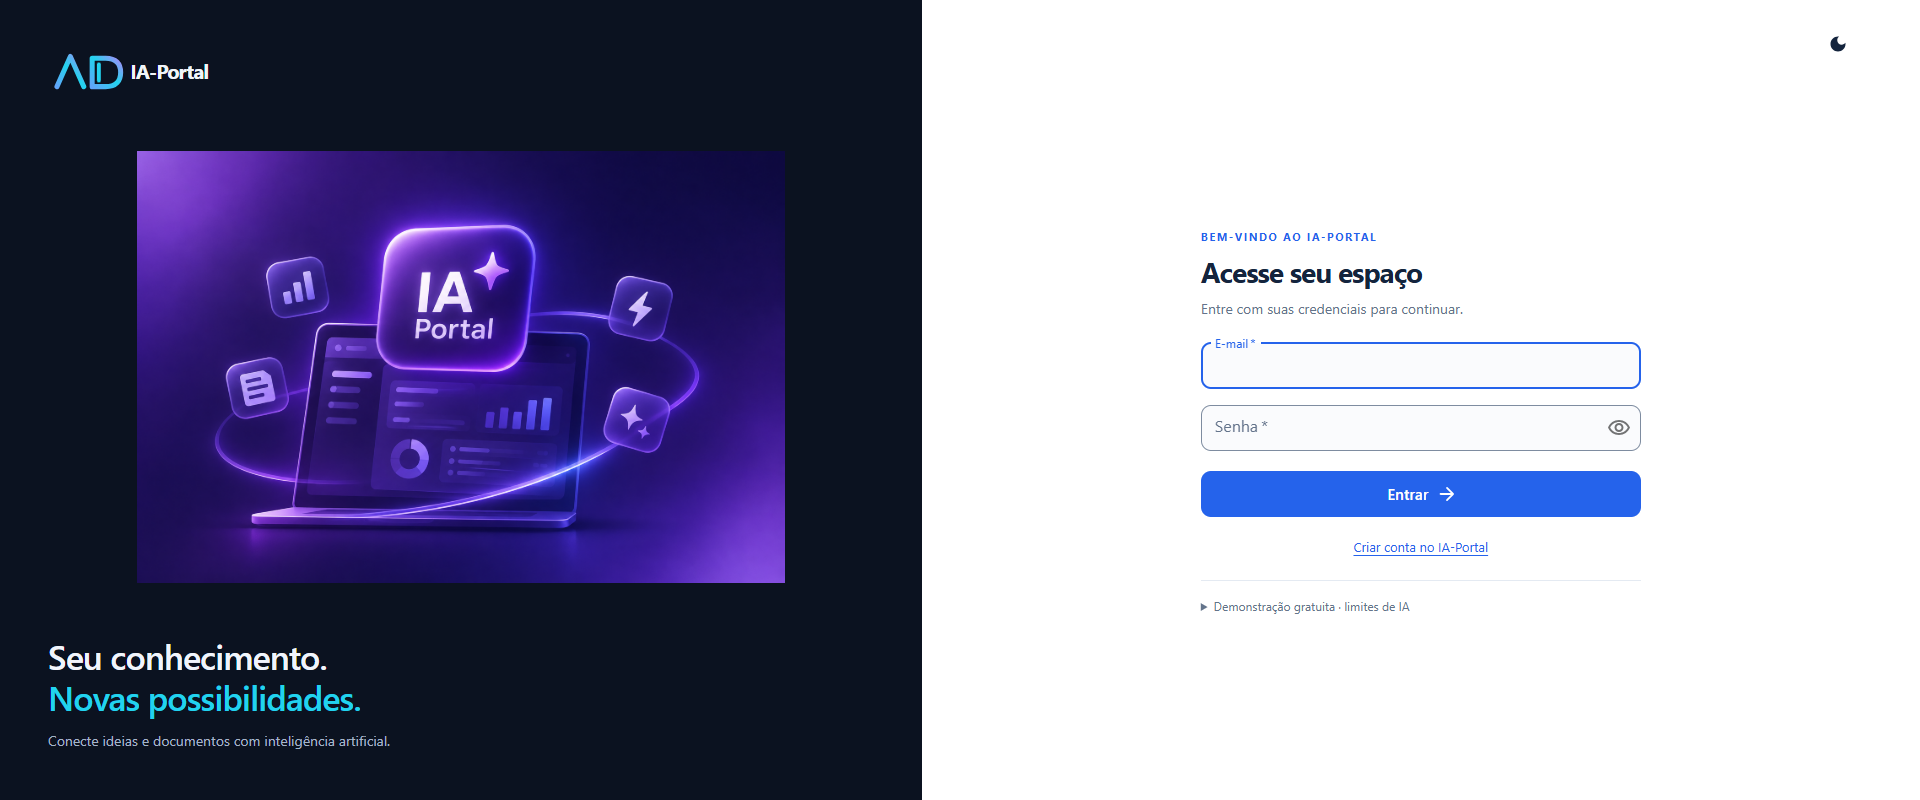
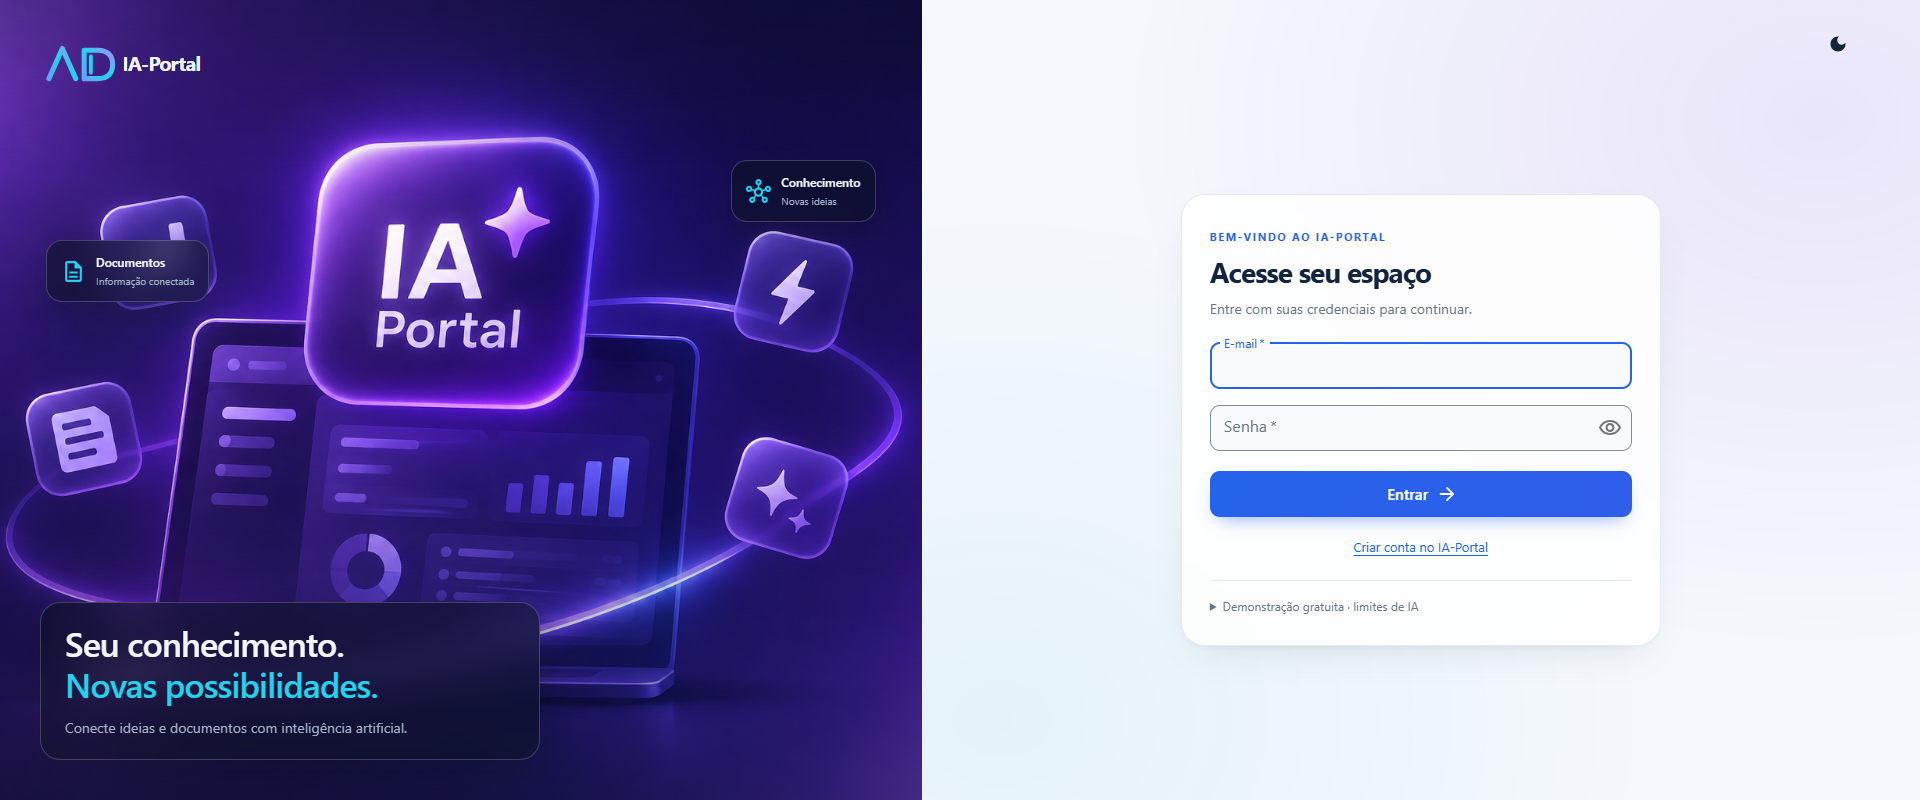
animated login

diff --git a/front/src/pages/login.css b/front/src/pages/login.css
@@ -6,22 +6,70 @@
   background: var(--portal-surface);
 }
 .login-story {
+  position: relative;
+  isolation: isolate;
   display: grid;
   grid-template-rows: auto minmax(220px, 1fr) auto;
   gap: 20px;
   min-width: 0;
-  padding: clamp(24px, 3vw, 48px);
+  padding: clamp(24px, 2.5vw, 40px);
   background: var(--login-art-background);
   color: var(--login-art-text);
 }
-.login-scene { align-self: center; width: 100%; min-width: 0; }
+.login-story > img, .login-story-copy { position: relative; z-index: 1; }
+.login-scene {
+  position: absolute;
+  inset: 0;
+  z-index: -1;
+  pointer-events: none;
+}
+.login-scene::after {
+  content: "";
+  position: absolute;
+  inset: 0;
+  background: linear-gradient(180deg,
+    color-mix(in srgb, var(--login-art-background) 30%, transparent),
+    transparent 22%, transparent 58%,
+    color-mix(in srgb, var(--login-art-background) 45%, transparent));
+}
 .login-illustration {
   display: block;
   width: 100%;
-  max-height: 54dvh;
-  object-fit: contain;
+  height: 100%;
+  object-fit: cover;
+  object-position: 50% 40%;
 }
-.login-story-copy { max-width: 460px; }
+.login-float {
+  position: absolute;
+  z-index: 1;
+  display: flex;
+  align-items: center;
+  gap: 10px;
+  padding: 12px 14px;
+  border: 1px solid color-mix(in srgb, var(--login-art-text) 20%, transparent);
+  border-radius: 16px;
+  background: color-mix(in srgb, var(--login-art-background) 55%, transparent);
+  backdrop-filter: blur(16px);
+  box-shadow: 0 12px 32px color-mix(in srgb, var(--login-art-background) 35%, transparent);
+  color: var(--login-art-text);
+  font-size: 12px;
+  font-weight: 600;
+  animation: login-float 7s ease-in-out infinite;
+}
+.login-float svg { color: var(--login-art-accent); font-size: 25px; }
+.login-float-caption { display: block; margin-top: 3px; font-size: 10px; font-weight: 400; color: var(--login-art-muted); }
+.login-float-document { left: 5%; top: 30%; }
+.login-float-knowledge { right: 5%; top: 20%; animation-delay: -3s; }
+.login-story-copy {
+  grid-row: 3;
+  max-width: 500px;
+  padding: 20px 24px;
+  border: 1px solid color-mix(in srgb, var(--login-art-text) 20%, transparent);
+  border-radius: 20px;
+  background: color-mix(in srgb, var(--login-art-background) 55%, transparent);
+  backdrop-filter: blur(20px);
+  box-shadow: 0 16px 40px color-mix(in srgb, var(--login-art-background) 40%, transparent);
+}
 .login-story .login-story-title {
   font-size: clamp(24px, 2vw, 34px);
   font-weight: 600;
@@ -40,6 +88,10 @@
   flex-direction: column;
   min-width: 0;
   padding: 24px clamp(24px, 4vw, 64px);
+  background:
+    radial-gradient(ellipse at 90% 15%, color-mix(in srgb, var(--portal-violet) 10%, transparent), transparent 55%),
+    radial-gradient(ellipse at 8% 90%, color-mix(in srgb, var(--portal-cyan) 7%, transparent), transparent 50%),
+    var(--portal-background);
 }
 .login-toolbar {
   display: flex;
@@ -51,17 +103,27 @@
 .login-mobile-brand { display: none; }
 .login-form-panel .login-form-card {
   width: 100%;
-  max-width: 440px;
+  max-width: 480px;
   align-self: center;
   margin-block: auto;
-  padding-block: 32px;
-  background: transparent;
-  border: 0;
-  box-shadow: none;
+  padding: 28px;
+  border-radius: 24px;
+  background: color-mix(in srgb, var(--portal-surface) 88%, transparent);
+  border: 1px solid var(--portal-border);
+  box-shadow: var(--portal-shadow);
+  backdrop-filter: blur(20px);
+  animation: login-card-enter .5s ease both;
+}
+[data-theme="dark"] .login-form-panel .login-form-card {
+  border-color: color-mix(in srgb, var(--portal-border) 85%, var(--portal-primary));
+  box-shadow: var(--portal-shadow), 0 0 60px -25px color-mix(in srgb, var(--portal-primary) 25%, transparent);
 }
 .login-fields { display: grid; gap: 16px; }
 .login-fields .MuiOutlinedInput-root { height: 46px; }
-.login-fields .MuiButton-containedPrimary { background-image: none; box-shadow: none; }
+.login-fields .MuiButton-containedPrimary {
+  background-image: linear-gradient(115deg, var(--portal-primary), color-mix(in srgb, var(--portal-primary) 88%, var(--portal-violet)));
+  box-shadow: 0 8px 18px -8px color-mix(in srgb, var(--portal-primary) 55%, transparent);
+}
 [data-theme="light"] .login-fields .MuiOutlinedInput-notchedOutline {
   border-color: color-mix(in srgb, var(--portal-muted) 80%, var(--portal-border));
 }
@@ -81,6 +143,11 @@
   max-width: 100%;
   border-radius: 4px;
 }
+@media (min-width: 900px) and (max-width: 1199px) {
+  .login-float { gap: 6px; padding: 9px; font-size: 11px; }
+  .login-float svg { font-size: 20px; }
+  .login-float-caption { display: none; }
+}
 @media (max-width: 899px) {
   .login-shell { grid-template-columns: minmax(0, 1fr); }
   .login-story { display: none; }
@@ -88,5 +155,17 @@
   .login-mobile-brand { display: block; min-width: 0; }
 }
 @media (max-width: 479px) {
-  .login-form-panel { padding: 16px 24px; }
+  .login-form-panel { padding: 16px; }
+  .login-form-panel .login-form-card { padding: 24px 20px; border-radius: 20px; }
+}
+@keyframes login-float {
+  0%, 100% { transform: translateY(0) rotate(-3deg); }
+  50% { transform: translateY(-9px) rotate(-1deg); }
+}
+@keyframes login-card-enter {
+  from { opacity: 0; transform: translateY(8px); }
+  to { opacity: 1; transform: translateY(0); }
+}
+@media (prefers-reduced-motion: reduce) {
+  .login-shell *, .login-shell *::before, .login-shell *::after { animation: none !important; }
 }

diff --git a/front/src/components/LoginVisual.tsx b/front/src/components/LoginVisual.tsx
@@ -1,8 +1,16 @@
 import { Box } from "@mui/material";
+import DescriptionOutlined from "@mui/icons-material/DescriptionOutlined";
+import HubOutlined from "@mui/icons-material/HubOutlined";
 
 // Original artwork stays unobscured and vivid in both themes.
 export default function LoginVisual() {
   return <Box className="login-scene" aria-hidden="true">
     <Box component="img" className="login-illustration" src="/images/login-neon-portal.png" alt="" />
+    <Box className="login-float login-float-document">
+      <DescriptionOutlined /><span>Documentos<span className="login-float-caption">Informação conectada</span></span>
+    </Box>
+    <Box className="login-float login-float-knowledge">
+      <HubOutlined /><span>Conhecimento<span className="login-float-caption">Novas ideias</span></span>
+    </Box>
   </Box>;
 }

diff --git a/docs/design/LOGIN_COMPACT_VALIDATION.md b/docs/design/LOGIN_COMPACT_VALIDATION.md
@@ -1,17 +1,25 @@
 # Login compacto — validação em 12/11/2026
 
-Branch: `feature/compact-login`. Alteração restrita ao login, sem novas dependências
+Revisão: `feature/login-glass-motion`, após o PR #17. Alteração restrita ao login, sem novas dependências
 ou mudanças de API, sessão, cadastro e retorno de convites.
 
-Grid 48%/52%, altura mínima do viewport, formulário até 440 px, campos/botão de
+Grid 48%/52%, altura mínima do viewport, cartão de até 480 px com formulário de
+422 px úteis no desktop, campos/botão de
 46 px e intervalo de 16 px. Toolbar no fluxo normal. Abaixo de 900 px, ilustração
 oculta e marca junto ao seletor de tema. Alturas insuficientes permitem rolagem.
 Sem overflow hidden no shell, corte de conteúdo ou transform scale.
 
 Imagem original e SVGs preservados. Painel ilustrado usa os tokens escuros
-existentes nos dois temas, sem transparência. Object-fit contain mantém a arte
-inteira visível. Cartão sobreposto, flutuantes e lista removidos. Formulário usa
-tema selecionado, bordas legíveis no claro e botão sólido sem brilho adicional.
+existentes nos dois temas, sem reduzir a opacidade da imagem. Object-fit cover
+preenche o painel mantendo o elemento IA-Portal visível; extremidades decorativas
+podem ser recortadas conforme a proporção. Mensagem curta em vidro fosco de
+aproximadamente 140–160 px de altura, sem lista de funcionalidades. Elementos
+decorativos flutuam por transform CSS em ciclos de 7 s. Formulário em cartão
+translúcido com blur, sombra, borda discreta e entrada de 0,5 s; fundo com gradientes
+estáticos. Claro usa superfícies neutras; escuro recupera profundidade e luz suave.
+Tokens existentes reutilizados. Sem cópia de marca, imagem ou código da referência.
+Somente elementos decorativos usam posicionamento absoluto; conteúdo essencial
+permanece em Grid/Flex. Movimento desativado em prefers-reduced-motion.
 Aviso completo em details/summary nativos, expansíveis por teclado.
 
 ## Resultado no navegador
@@ -30,7 +38,7 @@ login simuladas. Sem contas ou dados de produção.
 | 390×844 | PASS | PASS | Não | Não |
 
 Em 390×360 com erro, ambos os temas permitem rolar até o último controle.
-Formulário medido em 440 px no desktop/tablet e 342 px no mobile; campos/botão
+Formulário medido em 422 px no desktop/tablet e 316 px no mobile; campos/botão
 em 46 px. Controles essenciais visíveis em Full HD com 800 px úteis.
 Capturas de todos os viewports geradas e inspecionadas. Exemplos para revisão:
 
@@ -42,7 +50,9 @@ Capturas de todos os viewports geradas e inspecionadas. Exemplos para revisão:
 O teste `tests/ui/login-layout.cjs` confirma 12 layouts, zero violações axe WCAG
 A/AA encontradas, ausência de erros JavaScript, aviso operável com Enter, senha
 visível/oculta, payload original de login, loading com botão desabilitado, erro,
-tema salvo e link de cadastro condicionado à API. Não equivale a auditoria
+tema salvo e link de cadastro condicionado à API. A animação também foi verificada
+com movimento normal (transform varia) e preferência reduzida (animation none).
+Não equivale a auditoria
 completa de acessibilidade.
 
 ## Comandos executados

diff --git a/docs/delivery/IMPLEMENTATION_LOG.md b/docs/delivery/IMPLEMENTATION_LOG.md
@@ -22,6 +22,28 @@ docs/design/LOGIN_COMPACT_VALIDATION.md. Sem .NET/login real/deploy, pois backen
 intacto. Sem novas bibliotecas ou alterações em outras telas. PR para revisão
 visual, sem merge automático.
 
+## 2026-11-12 — conciliar login compacto com vidro e animação
+
+Proprietário aprovou o ganho de proporção, mas solicitou recuperar animação,
+transparência, sombras e profundidade, principalmente no escuro. Branch
+feature/login-glass-motion criada de origin/main com árvore limpa. Apenas
+LoginVisual/login.css e teste visual alterados; autenticação/markup do formulário
+intactos. Referência visual usada somente para composição, sem copiar seus ativos.
+
+Arte original agora preenche painel esquerdo; elemento central preservado no
+enquadramento. Mensagem curta em vidro fosco, flutuantes decorativos animados,
+cartão do formulário com transparência, sombra e animação de entrada. Gradientes
+estáticos e animações CSS transform, sem loop JavaScript. Preferência de movimento
+reduzido interrompe animações. Fluxo essencial continua em Grid/Flex, com dimensões
+compactas e rolagem normal para alturas insuficientes.
+
+Typecheck/build frontend: PASS, mantendo aviso de chunks >500 kB. Playwright/axe:
+12 layouts em desenvolvimento PASS, zero violações A/AA encontradas, sem overflow
+horizontal/scroll inicial nos quatro tamanhos solicitados e 1920×800/1366×640.
+Validado movimento real e desativação em reduced-motion; estados anteriores
+preservados. Build final em preview validada separadamente conforme relatório
+docs/design/LOGIN_COMPACT_VALIDATION.md. Sem .NET, API real, deploy ou merge.
+
 ## Modelo de registro
 
 ### YYYY-MM-DD — Etapa X — Título

diff --git a/docs/architecture/AS_IS_AUDIT.md b/docs/architecture/AS_IS_AUDIT.md
@@ -540,3 +540,9 @@ própria, cartão sobreposto e lista de funcionalidades. Padding/margens do
 formulário somavam altura excessiva e shell ocultava overflow. Refatoração
 mantém autenticação/tokens e reduz somente apresentação. Evidências e limites
 em docs/design/LOGIN_COMPACT_VALIDATION.md.
+
+Revisão visual posterior ao PR #17: o proprietário solicitou recuperar a
+profundidade e animação que foram retiradas. Reintroduzidos vidro/sombras no
+cartão e mensagem curta, imagem de fundo vívida e flutuantes decorativos CSS.
+Somente decoração é absoluta; formulário e controles continuam no fluxo normal.
+Reutilizados os mesmos tokens/ativos, sem mudança de identidade ou auth.
